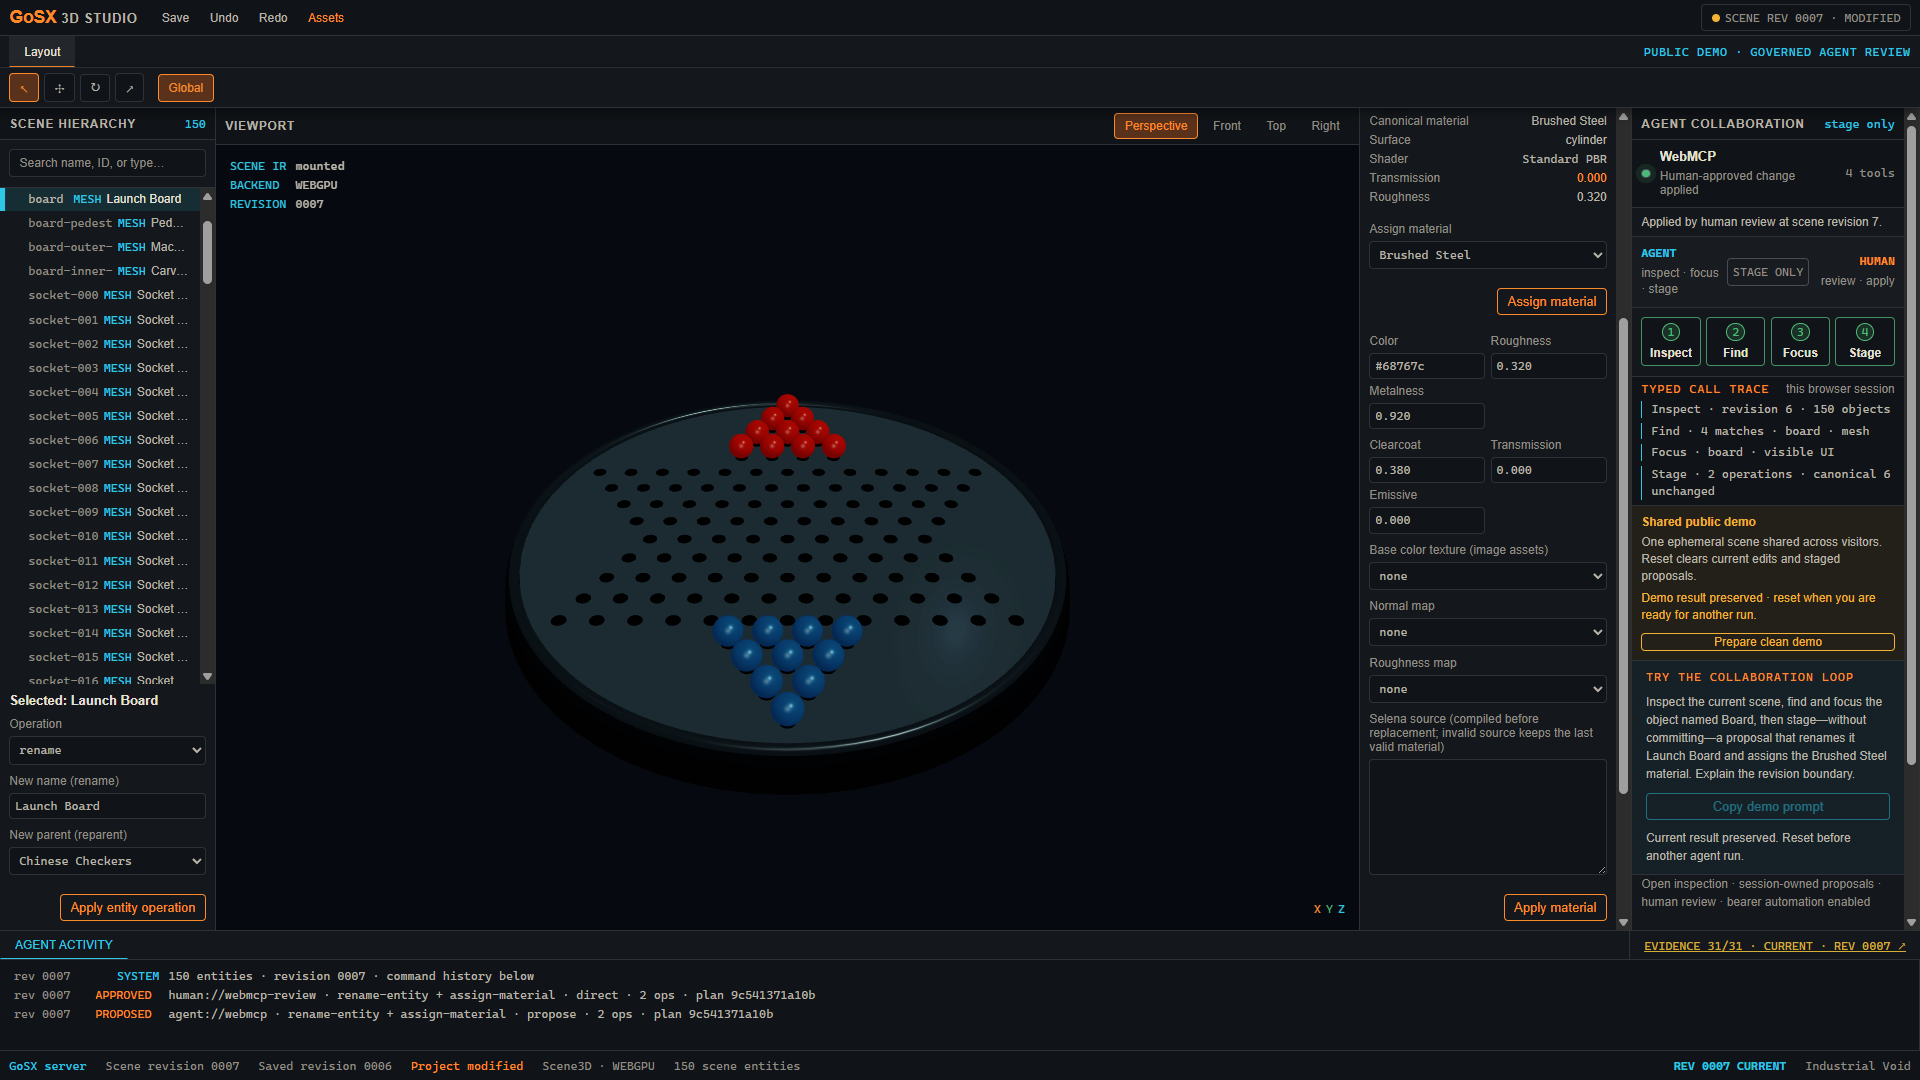
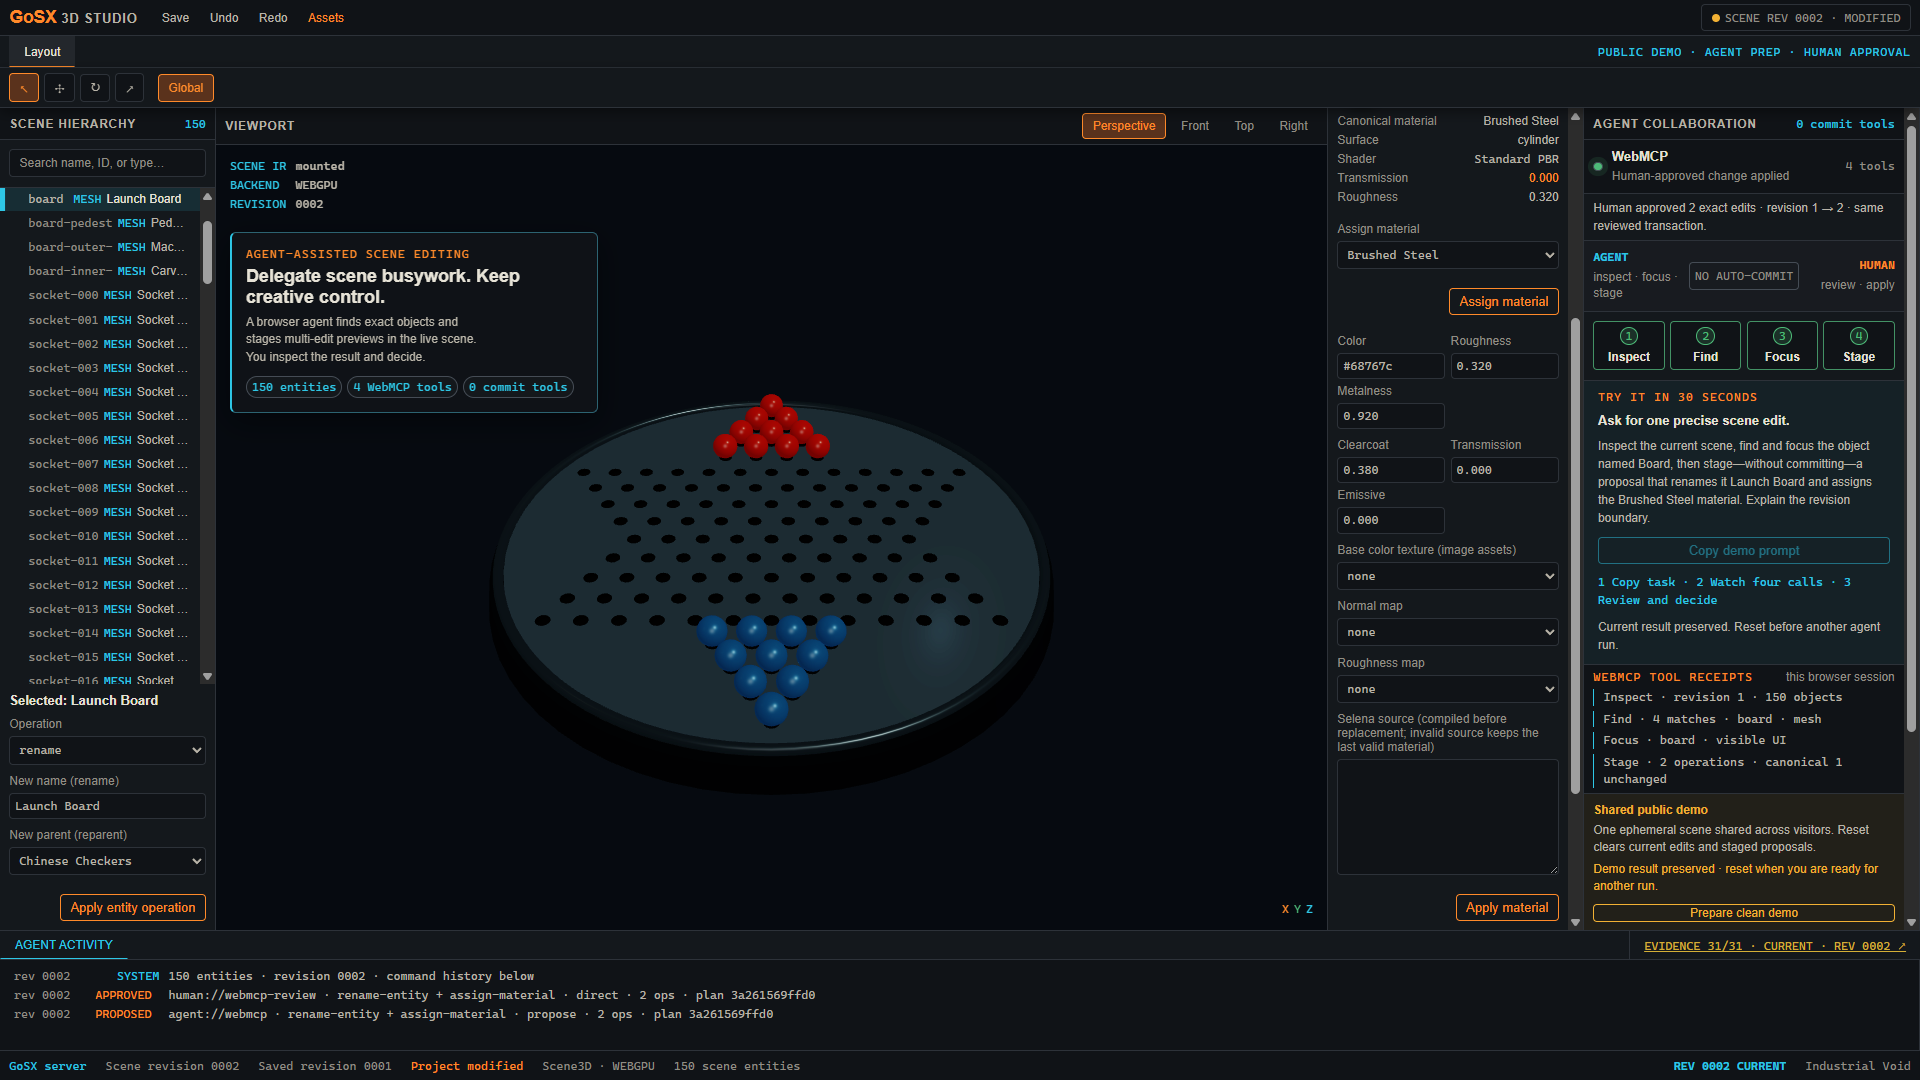
docs: publish final judge evidence

diff --git a/devpost-submission.md b/devpost-submission.md
@@ -134,11 +134,12 @@ requirement.
 7. Confirm `Launch Board`, `Brushed Steel`, revision `R+1`, and separate
    agent proposal and human approval activity.
 
-The immutable public GoSX `v0.55.1` deployment passed **162/162 stress
-assertions** and **139/139 clean-recording assertions** in native Windows Chrome
-152. Chrome exposed `document.modelContext`, discovered exactly four tools, used
-WebGPU, issued zero reload commands, and made one main-document request. The
-flow applied the reviewed transaction exactly once through the visible human
+The immutable public GoSX `v0.55.1` deployment passed a **162/162 stress run**
+plus **139/139 clean-recording runs** at both 1920×1080 and 1440×900 in native
+Windows Chrome 152. Chrome exposed
+`document.modelContext`, discovered exactly four tools, used WebGPU, issued
+zero reload commands, and made one main-document request per run. The flow
+applied the reviewed transaction exactly once through the visible human
 action, returned to a clean shared scene, and recorded no failures. A ChatGPT
 in-app-browser pass remains useful optional cross-client assurance, but is not
 required in addition to the compatible Chrome path.
@@ -151,18 +152,18 @@ public README and `docs/native-webmcp-qa.md`.
 [GoSX 3D Studio live demo](https://gosx3d.m31labs.dev)
 
 The live URL serves the immutable GoSX `v0.55.1` image built from commit
-`d6e18a637c4dc2d994079c30365a60193920e721`, pinned by digest
-`sha256:e4c38ac191c30fa681258ac88c66d0a964af7beb73423fec8a3280af1232d71b`.
+`1920e05447bfd5d98bee6b0c2576e9302734d46f`, pinned by digest
+`sha256:0ec822b383c8d75536351f7cd6118961340dc93267691b4b67399c74f4774e10`.
 Its public health endpoint reports `0.55.1`.
 
 ## Public Repository Link
 
 [M31-Labs/gosx3d-studio](https://github.com/M31-Labs/gosx3d-studio) — MIT
 
-The repository is public, the release candidate is merged to its default
-branch at merge commit `1a14cba13eaf82bae5ff510853fe533a95e5ddb8`, and the
-required source, MIT license, gallery assets, and testing instructions are
-available without authentication.
+The repository is public on its default `main` branch, and the required source,
+MIT license, gallery assets, and testing instructions are available without
+authentication. The deployed judge-clarity implementation is merge commit
+`1920e05447bfd5d98bee6b0c2576e9302734d46f`.
 
 ## Demo Video
 

diff --git a/README.md b/README.md
@@ -92,15 +92,16 @@ To exercise the WebMCP tools, use ChatGPT's in-app browser or Chrome 149+ with
 `chrome://flags/#enable-webmcp-testing` enabled. The Agent Collaboration panel
 reports whether the browser registered all four tools.
 
-The immutable public GoSX v0.55.1 build passed 162/162 stress assertions and
-139/139 clean-recording assertions in Google Chrome 152 on Windows. Chrome used
-its native `document.modelContext`, discovered exactly four tools, negotiated
-WebGPU, issued zero reload commands, and made one main-document request. The
-flow staged a reversible preview, applied it exactly once through the visible
-human action, and reset to a clean shared scene with no failures. ChatGPT's
-in-app browser remains useful optional cross-client assurance. See [Native
-WebMCP verification](docs/native-webmcp-qa.md) for the exact evidence boundary
-and exercised workflow.
+The immutable public GoSX v0.55.1 build passed a 162/162 stress run plus
+139/139 clean-recording runs at both 1920×1080 and 1440×900 in Google Chrome
+152 on Windows. Chrome used its native `document.modelContext`,
+discovered exactly four tools, negotiated WebGPU, issued zero reload commands,
+and made one main-document request per run. The flow staged a reversible
+preview, applied it exactly once through the visible human action, and reset to
+a clean shared scene with no failures. ChatGPT's in-app browser remains useful
+optional cross-client assurance. See [Native WebMCP
+verification](docs/native-webmcp-qa.md) for the exact evidence boundary and
+exercised workflow.
 
 For a disposable shared judge/demo workspace with a visible reset action that
 is not exposed as a WebMCP tool:
@@ -132,8 +133,8 @@ runtime secrets outside Git, an immutable Harbor digest, and TLS through the
 existing M31 Labs ingress.
 
 The current public deployment was built from commit
-`d6e18a637c4dc2d994079c30365a60193920e721` and is pinned to image digest
-`sha256:e4c38ac191c30fa681258ac88c66d0a964af7beb73423fec8a3280af1232d71b`.
+`1920e05447bfd5d98bee6b0c2576e9302734d46f` and is pinned to image digest
+`sha256:0ec822b383c8d75536351f7cd6118961340dc93267691b4b67399c74f4774e10`.
 Its public health endpoint reports GoSX `0.55.1`.
 
 Keep the service at one instance: the demo intentionally shares process-local

diff --git a/docs/webmcp-challenge.md b/docs/webmcp-challenge.md
@@ -275,20 +275,21 @@ reachable without local network access.
 
 ### Verified compatible client
 
-The immutable [public deployment](https://gosx3d.m31labs.dev) passed 162/162
-stress assertions and 139/139 clean-recording assertions in Google Chrome 152
-on Windows with `WebMCPTesting,DevToolsWebMCPSupport` enabled. Chrome exposed
+The immutable [public deployment](https://gosx3d.m31labs.dev) passed a 162/162
+stress run plus 139/139 clean-recording runs at both 1920×1080 and 1440×900 in
+Google Chrome 152 on Windows with
+`WebMCPTesting,DevToolsWebMCPSupport` enabled. Chrome exposed
 its native `Document.modelContext` getter and `ModelContext.registerTool`,
 discovered exactly the four Studio tools, and completed inspect, find, focus, a
 two-operation non-mutating preview, and visible-UI Apply. Canonical name,
 material, and revision stayed unchanged before approval; Apply advanced the
 revision exactly once; and the clean flow reset the shared scene afterward.
-WebGPU initialized, the run issued zero reload commands and one main-document
+WebGPU initialized, each run issued zero reload commands and one main-document
 request, and runtime, console, network, and HTTP failure lists were empty.
 
 The public health endpoint reported GoSX `0.55.1`. The image was built from
-commit `d6e18a637c4dc2d994079c30365a60193920e721` and pinned by digest
-`sha256:e4c38ac191c30fa681258ac88c66d0a964af7beb73423fec8a3280af1232d71b`.
+commit `1920e05447bfd5d98bee6b0c2576e9302734d46f` and pinned by digest
+`sha256:0ec822b383c8d75536351f7cd6118961340dc93267691b4b67399c74f4774e10`.
 Broader tests cover discard, stale rejection, group-scale preview, client-side
 light-scale validation, and shared reset. This is native Chrome WebMCP
 evidence; it is not a claim that ChatGPT's in-app browser has already been

diff --git a/docs/handoff.md b/docs/handoff.md
@@ -15,13 +15,14 @@
   and bounded edit proposals. Every proposal is evaluated by Arbiter and stays
   non-mutating until a person applies the exact staged transaction.
 - An immutable public GoSX v0.55.1 deployment built from commit
-  `d6e18a637c4dc2d994079c30365a60193920e721` and pinned by digest
-  `sha256:e4c38ac191c30fa681258ac88c66d0a964af7beb73423fec8a3280af1232d71b`;
+  `1920e05447bfd5d98bee6b0c2576e9302734d46f` and pinned by digest
+  `sha256:0ec822b383c8d75536351f7cd6118961340dc93267691b4b67399c74f4774e10`;
   public health reports `0.55.1`.
-- Native Windows Chrome 152 public-origin evidence: 162/162 stress assertions
-  and 139/139 clean-recording assertions, native `document.modelContext`, four
-  tools, WebGPU, zero reload commands, one main-document request, exact-once
-  human Apply, clean reset, and no failures.
+- Native Windows Chrome 152 public-origin evidence: a 162/162 stress run plus
+  139/139 clean-recording runs at 1920×1080 and 1440×900, native
+  `document.modelContext`, four tools, WebGPU, zero reload commands, one
+  main-document request per run, exact-once human Apply, clean reset, and no
+  failures.
 - A pinned production build, Render Blueprint, Linux evidence workflow, and a
   Windows workflow that stages an offline bundle and unsigned MSIX package.
 

diff --git a/docs/native-webmcp-qa.md b/docs/native-webmcp-qa.md
@@ -3,8 +3,8 @@
 Completed September 2, 2026 evidence covers the immutable GoSX `v0.55.1`
 [public demo](https://gosx3d.m31labs.dev) in native Windows Chrome. The public
 health endpoint reported `0.55.1`; the deployed image was built from commit
-`d6e18a637c4dc2d994079c30365a60193920e721` and pinned by digest
-`sha256:e4c38ac191c30fa681258ac88c66d0a964af7beb73423fec8a3280af1232d71b`.
+`1920e05447bfd5d98bee6b0c2576e9302734d46f` and pinned by digest
+`sha256:0ec822b383c8d75536351f7cd6118961340dc93267691b4b67399c74f4774e10`.
 
 ## Client
 
@@ -31,8 +31,8 @@ The preview tool schema exposed exactly three operation kinds:
 `rename-entity`, `set-transform`, and `assign-material`.
 
 The public GoSX `v0.55.1` stress run passed 162/162 acceptance assertions, and
-the clean recording run passed 139/139. Together they proved this same-document
-flow:
+the clean recording run passed 139/139 at both 1920×1080 and 1440×900. Together
+they proved this same-document flow:
 
 - native state inspection, stable-ID search, and visible focus;
 - a two-operation `Board` to `Launch Board` rename plus dedicated `Brushed
